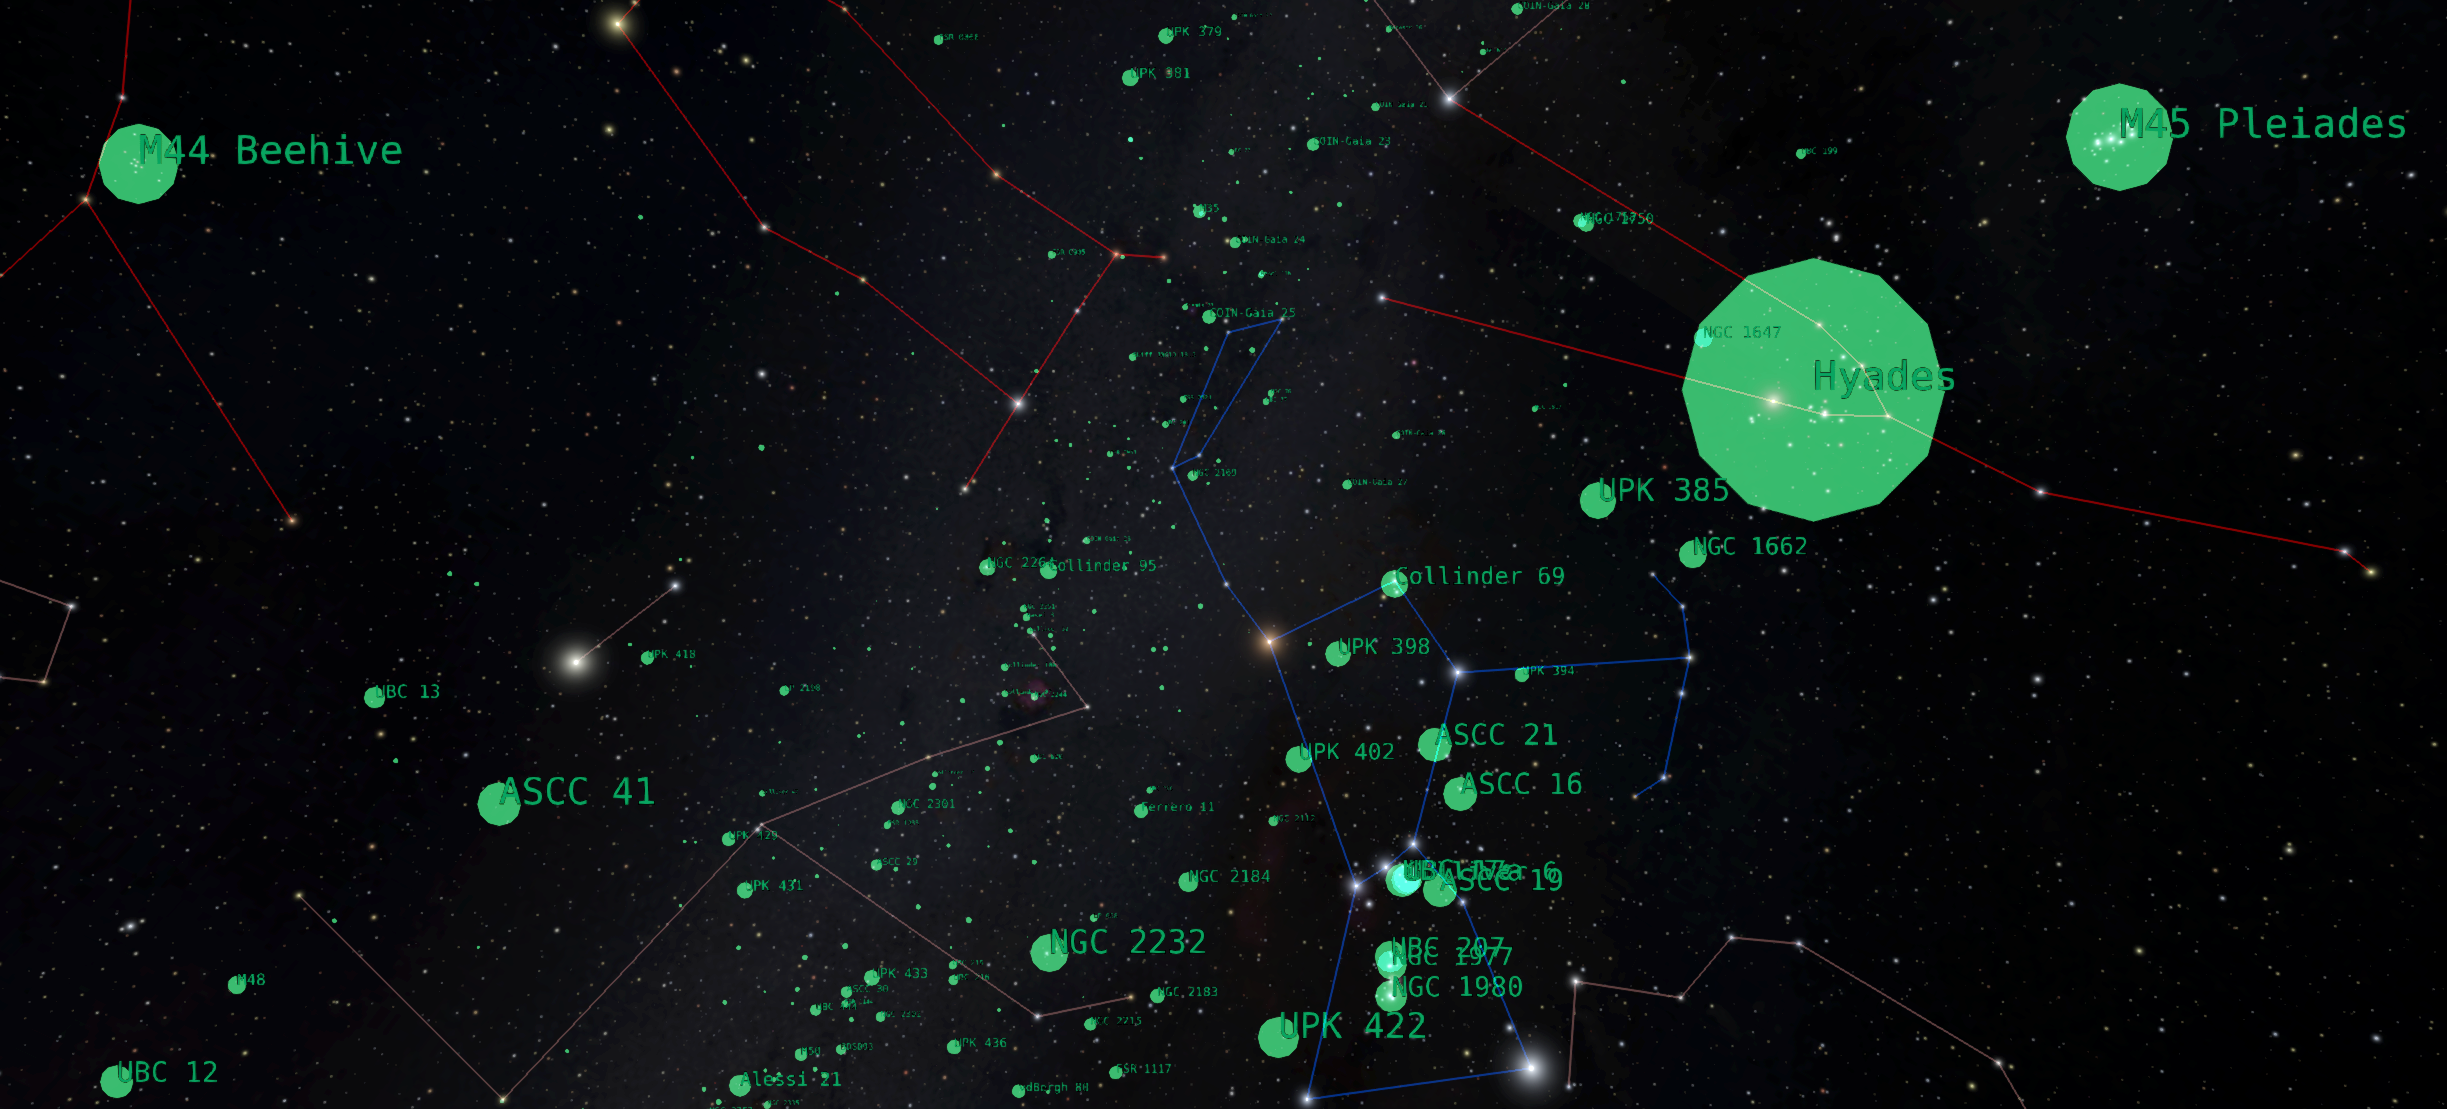
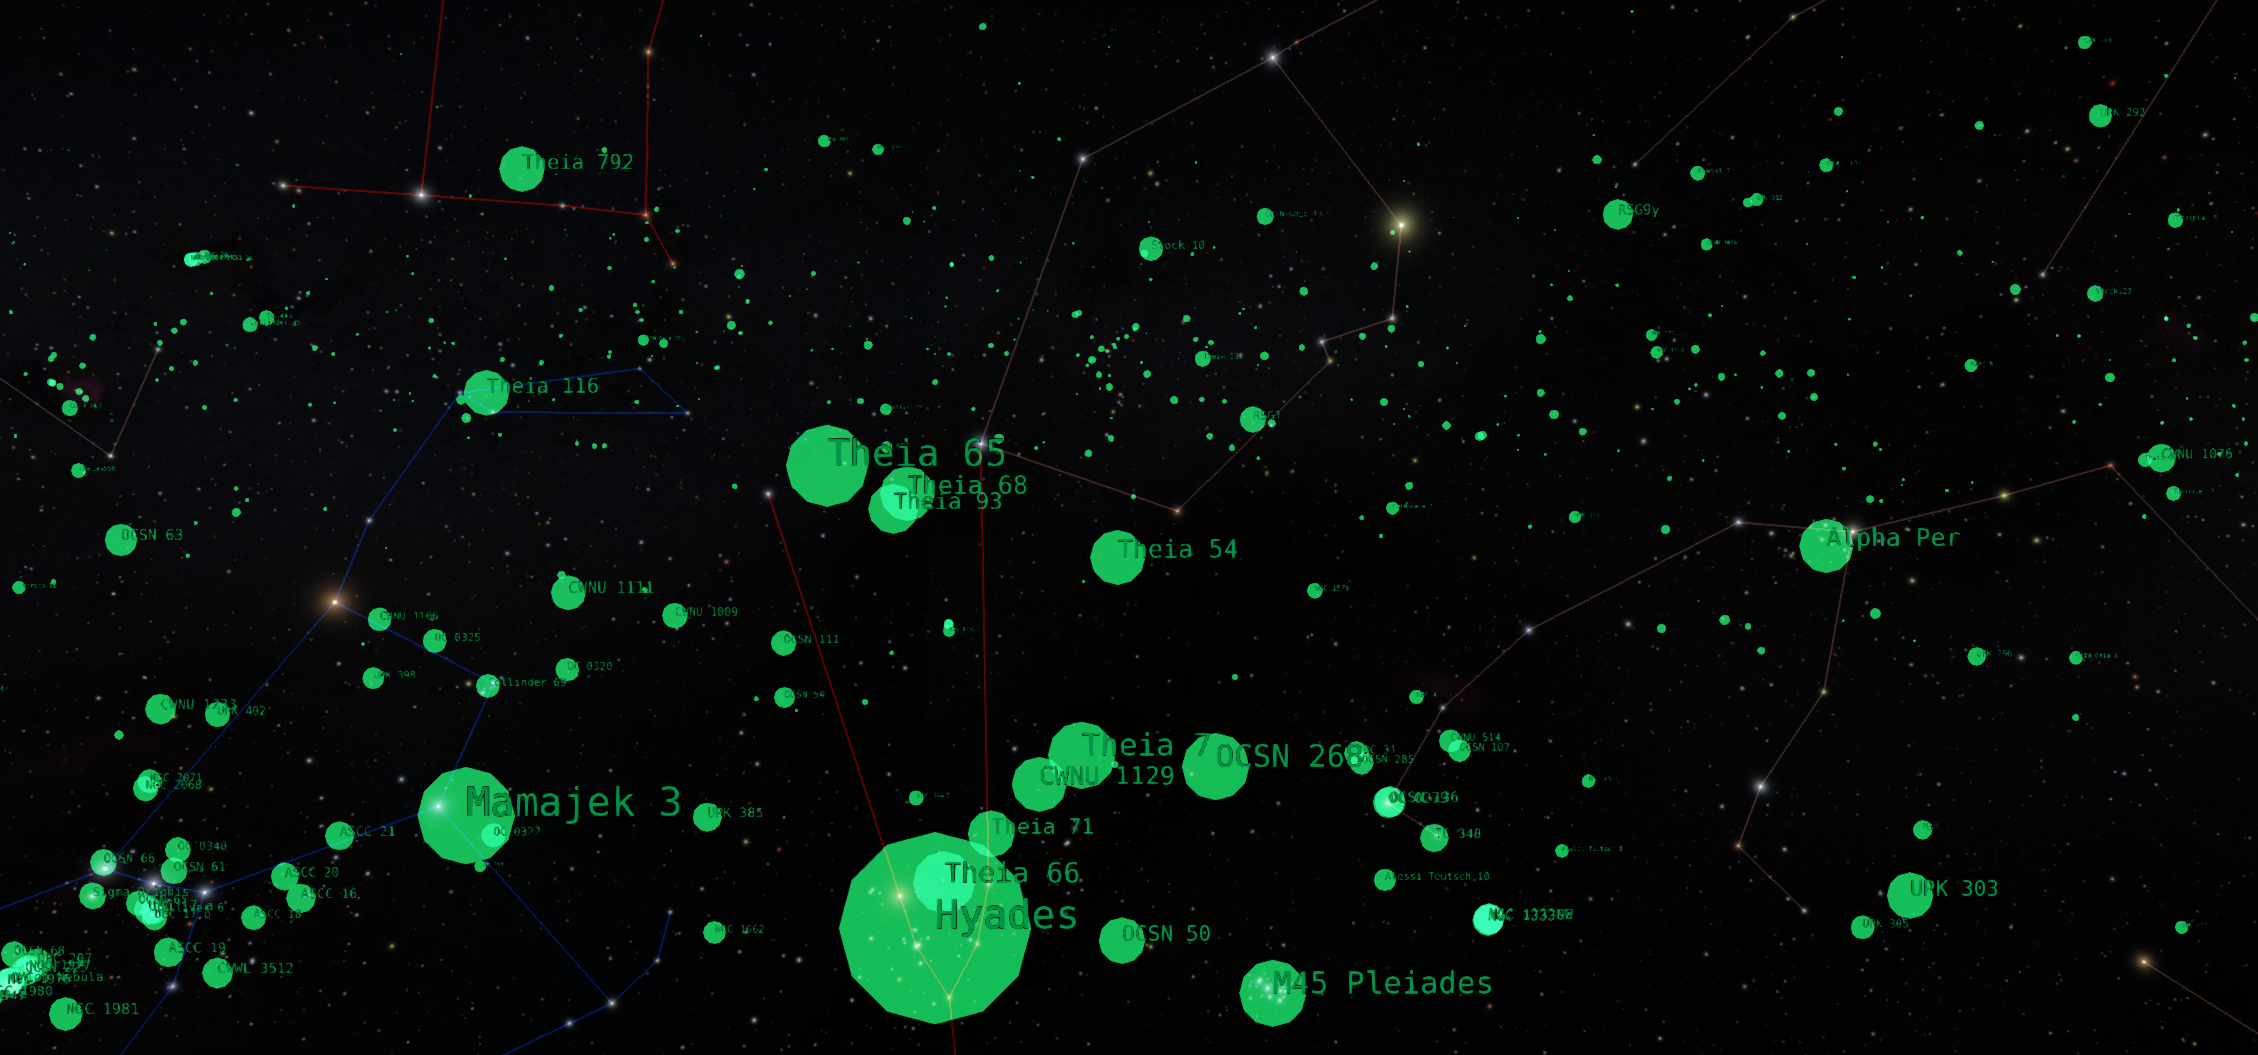
Data updates reflected in the documentation.

diff --git a/content/milky-way/star-clusters/open-clusters/index.md b/content/milky-way/star-clusters/open-clusters/index.md
@@ -12,7 +12,7 @@ An open star cluster is a loose assemblage of stars numbering from hundreds to t
 :align: left
 :alt: A view of the night sky looking toward the constellation Orion. Shown are constellation lines for Orion, Cancer, Gemini, and Taurus and some peripheral constellations. Solid, green circles indicate the locations nof open star clusters.
 
-A night sky view of the open star clusters looking toward Orion, with Cancer, Gemini, and Taurus in view. Green indicators mark each open cluster and the size of the indicator reveals the distance of the cluster from your view. The Hyades is relatively close to Earth, and the Pleiades is somewhat close too, while others are more distant.
+A night sky view of the open star clusters looking toward Orion (lower left), with Taurus, Auriga, and Perseus in view. Green indicators mark each open cluster and the size of the indicator reveals the distance of the cluster from your view. The Hyades is relatively close to Earth, and the Pleiades is somewhat close too, while others are more distant.
 :::
 
 
@@ -91,13 +91,13 @@ Looking at the Milky Way Galaxy edge-on, we can see the open clusters are tightl
 
 ## Dossier
 :::{dossier}
-:census: 1,867 clusters
+:census: 3,647 clusters
 :assetfile: data/assets/scene/digitaluniverse/openclusters.asset
-:openspaceversion: 4
-:preparedby: Brian Abbott, Zack Reeves (AMNH)
-:sourceversion: 8.09
+:openspaceversion: 5
+:preparedby: Brian Abbott (AMNH), Cade Mohrhardt (AMNH), Zack Reeves (AMNH), Ally Baldelli (AMNH)
+:sourceversion: 9.11
 :license: amnh
-:reference: Galactic spiral structure revealed by Gaia EDR3=<https://doi.org/10.1051/0004-6361/202140687>
+:reference: The Unified Cluster Catalogue=<https://zenodo.org/records/19712053>
 :::
 
 :::::

diff --git a/content/milky-way/exoplanets/exoplanet-candidates/index.md b/content/milky-way/exoplanets/exoplanet-candidates/index.md
@@ -62,7 +62,7 @@ While Kepler gave us a taste of the number of exoplanets out there, TESS will fu
 :align: left
 :alt: The exoplanet candidate stars as seen from afar. Green, yellow, and orange stars are huddled around the Sun, each candidate stars from different missions.
 
-As seen from afar, the exoplanet candidate stars are huddled around the Sun. Green stars are from TESS, yellow stars extend to the left of the Sun in this image and are from Kepler, and orange stars, from Kepler's K2 mission, extend in all directions along the ecliptic, though they look like a flat disk here, they more resemble a pinwheel from a different vantage point.
+As seen from afar, the exoplanet candidate stars are huddled around the Sun. Green stars are from TESS, yellow stars extend to the left of the Sun in this image and are from Kepler, and orange stars, from Kepler's K2 mission, extend in all directions along the ecliptic, though they look like a flat disk here, they more resemble a pinwheel from a different vantage point. The lines protruding are constellation connectivity lines.
 :::
 :::::
 
@@ -95,11 +95,11 @@ As seen from afar, the exoplanet candidate stars are huddled around the Sun. Gre
 
 ## Dossier
 :::{dossier}
-:census: 8,589 stars
+:census: 9,122 stars
 :assetfile: data/assets/scene/digitaluniverse/exoplanets_candidates.asset
-:openspaceversion: 2
-:preparedby: Brian Abbott, Zack Reeves, Emily Rice, Jason No (AMNH)
-:sourceversion: 12.09
+:openspaceversion: 4
+:preparedby: Brian Abbott, Zack Reeves, Ally Baldelli, Emily Rice, Jason No (AMNH)
+:sourceversion: 13.10
 :license: amnh
 :reference: NASA Exoplanet Archive=<https://exoplanetarchive.ipac.caltech.edu/index.html>
 :::

diff --git a/content/milky-way/exoplanets/exoplanet-systems/index.md b/content/milky-way/exoplanets/exoplanet-systems/index.md
@@ -5,7 +5,7 @@
 :::::{tab-item} Overview
 
 ## Overview
-The discovery and study of exoplanets is a relatively new field within astrophysics. The first confirmed system was discovered in 1995, and since then it has been a burgeoning subfield of research.
+The discovery and study of exoplanets is a relatively new field within astrophysics. The first confirmed system was discovered in 1995, though the first evidence appeared in 1992, and since then it has been a burgeoning subfield of research.
 
 
 :::{note}
@@ -111,11 +111,11 @@ A view of the exoplanetary systems from outside the Milky Way galaxy. We are sti
 
 ## Dossier
 :::{dossier}
-:census: 4,139 planets in 3,023 systems
+:census: 6,284 planets in 4,680 systems
 :assetfile: data/assets/scene/digitaluniverse/exoplanets.asset
-:openspaceversion: 4
-:preparedby: Brian Abbott, Zack Reeves (AMNH)
-:sourceversion: 21.13
+:openspaceversion: 6
+:preparedby: Brian Abbott, Zack Reeves, Ally Baldelli (AMNH)
+:sourceversion: 22.14
 :license: amnh
 :reference: NASA Exoplanet Archive=<https://exoplanetarchive.ipac.caltech.edu/index.html>;Gaia DR3=<https://doi.org/10.5270/esa-qa4lep3>;XHIP An Extended Hipparcos Compilation=<https://ui.adsabs.harvard.edu/link_gateway/2012AstL...38..331A/doi:10.48550/arXiv.1108.4971>
 :::

diff --git a/content/milky-way/substellar-objects/brown-dwarfs/index.md b/content/milky-way/substellar-objects/brown-dwarfs/index.md
@@ -86,11 +86,11 @@ Brown dwarfs, in red, distributed around the Sun. The green object is a 160-ligh
 
 ## Dossier
 :::{dossier}
-:census: 2,203 brown dwarfs
+:census: 2,729 brown dwarfs
 :assetfile: data/assets/scene/digitaluniverse/brown_dwarfs.asset
-:openspaceversion: 1
+:openspaceversion: 3
 :preparedby: Brian Abbott, Zack Reeves, Jackie Faherty (AMNH)
-:sourceversion: 7.05
+:sourceversion: 8.06
 :license: amnh
 :reference: The UltraCool Sheet=<https://zenodo.org/records/4169085>
 :::